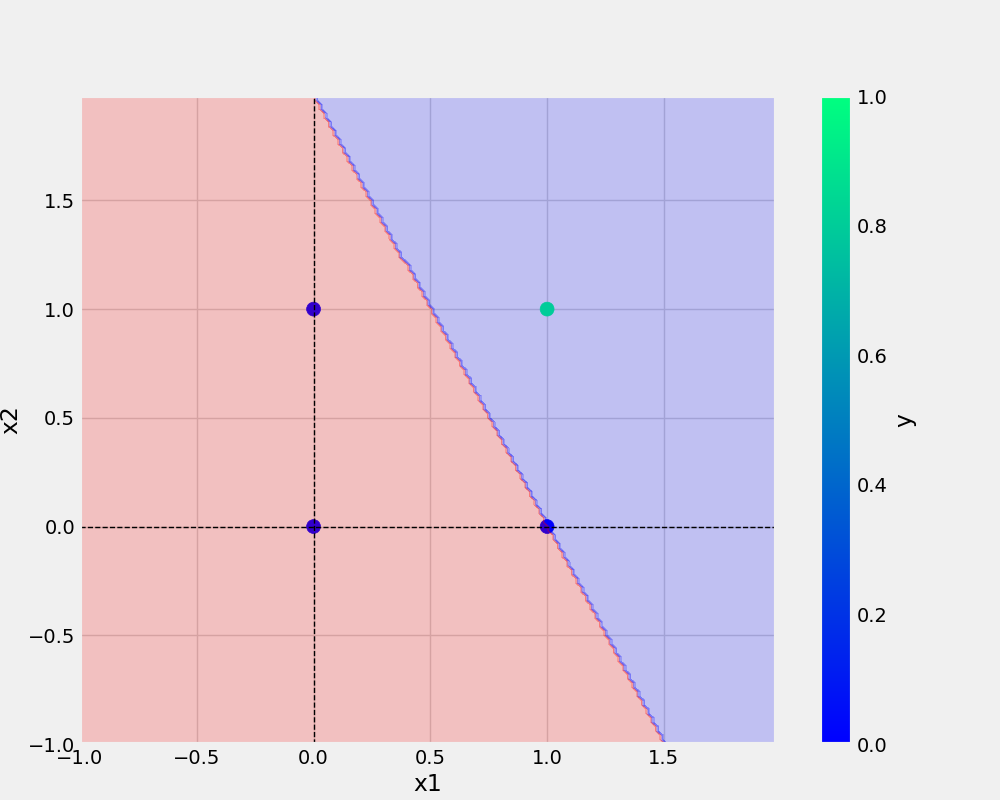
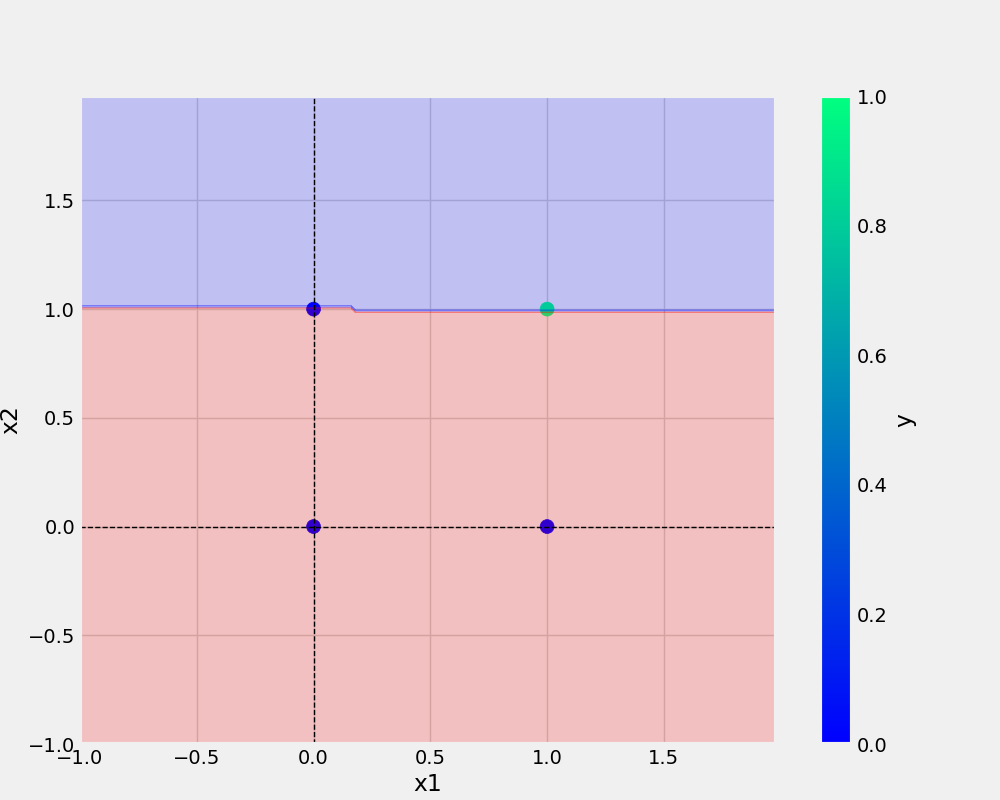
code organised

Changed region(s): [[0.062, 0.125, 0.775, 0.9375]]

diff --git a/or.py b/or.py
@@ -1,8 +1,8 @@
-from matplotlib.pyplot import plot
 from utils.model import Perceptron
 from utils.all_utils import prepare_data, save_model, save_plot
 import pandas as pd 
 import numpy as np
+
 
 
 def main(data,eta,epochs,filename,plotfilename):
@@ -21,14 +21,13 @@ def main(data,eta,epochs,filename,plotfilename):
 
 
 if __name__ =='__main__':   ## Entry point for this file
-    AND = {
+    OR = {
         'x1':[0,0,1,1],
         'x2': [0,1,0,1],
-        'y': [0,0,0,1]
+        'y': [0,1,1,1]
 
     }
     ETA = 0.3 #Between 0 and 1
     EPOCHS = 10
 
-    main(data = AND,eta=ETA,epochs=EPOCHS,filename='and.model',plotfilename='and.png')     ### Start execution from here
-        
+    main(data = OR,eta=ETA,epochs=EPOCHS,filename='or.model',plotfilename='or.png')     ### Start execution from here
